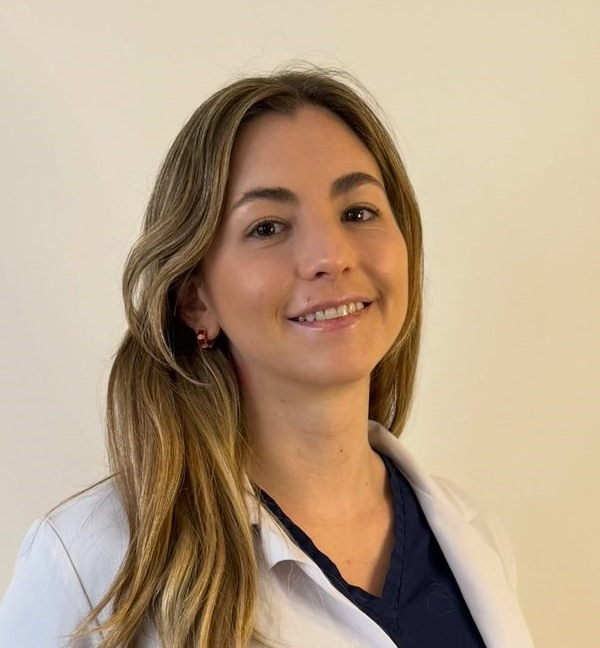
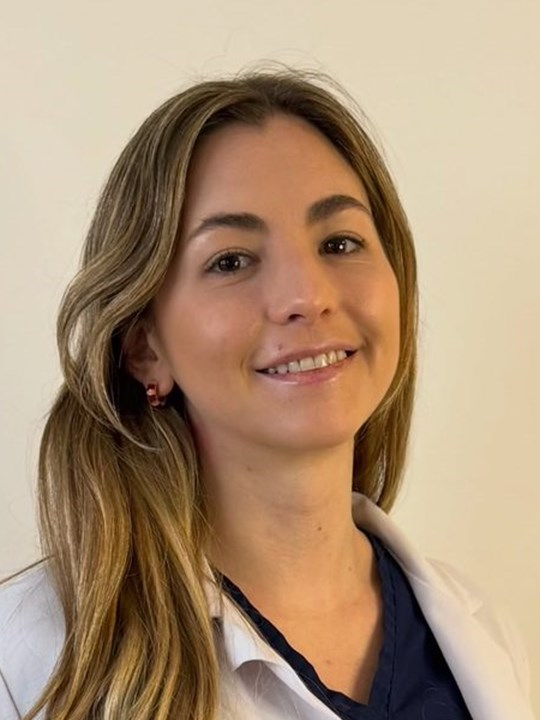
El equipo en una sola fila: las seis del mismo tamaño y con la misma importancia
- Seis retratos iguales, con el mismo recorte y la cara a un tamaño parecido. En la compu entran todas en una
  fila, sin scroll; en pantallas de hasta 1180 px van de a tres, y en el celular de a dos.
- Al tocar una foto, el perfil completo se abre en una ventana (médicas y kinesióloga).
- Se suma el nombre de la enfermera, Rita Beatriz Nusinovich, también en el pie de página.
- Se saca el diseño anterior, con su código e imágenes.

diff --git a/index.html b/index.html
@@ -19,7 +19,7 @@
   <link rel="preload" href="assets/fonts/instrument-serif-latin.woff2" as="font" type="font/woff2" crossorigin>
   <link rel="preload" href="assets/fonts/archivo-latin.woff2" as="font" type="font/woff2" crossorigin>
   <link rel="stylesheet" href="assets/css/motor.css?v=13">
-  <link rel="stylesheet" href="assets/css/tema.css?v=50">
+  <link rel="stylesheet" href="assets/css/tema.css?v=52">
   <style>html{background:#070f26}</style>
   <script>(function(d){d.className=d.className.replace('no-js','js');try{if(sessionStorage.getItem('coms-m4-intro'))d.classList.add('seen')}catch(e){}var s=null;try{s=localStorage.getItem('coms-tema')}catch(e){}d.dataset.theme=(s==='dark'||s==='light')?s:(matchMedia('(prefers-color-scheme: dark)').matches?'dark':'light')})(document.documentElement);if('scrollRestoration' in history)history.scrollRestoration='manual';</script>
 </head>
@@ -136,92 +136,129 @@
             <p class="k"><b>01</b> El equipo</p>
             <h2 class="d" id="team-title" data-split="words">Un equipo, <em>una misma mirada.</em></h2>
           </div>
-          <p class="lead" data-reveal>Tres otorrinolaringólogas formadas en trastornos respiratorios del sueño, cada una con su recorrido y todas con el mismo criterio. Al pedir el turno elegís con quién atenderte.</p>
+          <p class="lead" data-reveal>Tres otorrinolaringólogas formadas en trastornos respiratorios del sueño, una kinesióloga, una secretaria y una enfermera. Cada una con su recorrido, todas con el mismo criterio. Al pedir el turno elegís con quién atenderte.</p>
         </header>
-        <p class="eq__desliza">Deslizá para ver a las tres</p>
-        <div class="eq__medicas" data-stagger>
-          <article class="eq__m">
-            <div class="eq__foto"><img src="assets/img/equipo-armijos.jpg" alt="Retrato de la Dra. Karla Armijos" loading="lazy" style="object-position:50% 22%"></div>
+        <div class="eq" data-stagger>
+          <article>
+            <button class="eq__b" type="button" data-perfil="p-armijos" aria-haspopup="dialog">
+              <span class="eq__foto"><img src="assets/img/retrato-armijos.jpg" alt="" loading="lazy"></span>
+              <span class="eq__a">Rinología y sueño</span>
+              <span class="eq__n">Dra. Karla Armijos</span>
+              <span class="eq__v">Ver perfil<svg width="13" height="13" aria-hidden="true"><use href="#i-arrow"/></svg></span>
+            </button>
+          </article>
+          <article>
+            <button class="eq__b" type="button" data-perfil="p-orquera" aria-haspopup="dialog">
+              <span class="eq__foto"><img src="assets/img/retrato-orquera.jpg" alt="" loading="lazy"></span>
+              <span class="eq__a">Trastornos del sueño</span>
+              <span class="eq__n">Dra. Lourdes Orquera</span>
+              <span class="eq__v">Ver perfil<svg width="13" height="13" aria-hidden="true"><use href="#i-arrow"/></svg></span>
+            </button>
+          </article>
+          <article>
+            <button class="eq__b" type="button" data-perfil="p-sartori" aria-haspopup="dialog">
+              <span class="eq__foto"><img src="assets/img/retrato-sartori.jpg" alt="" loading="lazy"></span>
+              <span class="eq__a">Medicina del sueño</span>
+              <span class="eq__n">Dra. Verónica Sartori</span>
+              <span class="eq__v">Ver perfil<svg width="13" height="13" aria-hidden="true"><use href="#i-arrow"/></svg></span>
+            </button>
+          </article>
+          <article>
+            <button class="eq__b" type="button" data-perfil="p-jaritos" aria-haspopup="dialog">
+              <span class="eq__foto"><img src="assets/img/retrato-jaritos.jpg" alt="" loading="lazy"></span>
+              <span class="eq__a">Kinesiología · CPAP</span>
+              <span class="eq__n">Verónica Jaritos</span>
+              <span class="eq__v">Ver perfil<svg width="13" height="13" aria-hidden="true"><use href="#i-arrow"/></svg></span>
+            </button>
+          </article>
+          <article>
+            <div class="eq__b">
+              <span class="eq__foto"><img src="assets/img/retrato-garcia.jpg" alt="" loading="lazy"></span>
+              <span class="eq__a">Secretaría</span>
+              <span class="eq__n">Guillermina García</span>
+            </div>
+          </article>
+          <article>
+            <div class="eq__b">
+              <span class="eq__foto"><img src="assets/img/retrato-nusinovich.jpg" alt="" loading="lazy"></span>
+              <span class="eq__a">Enfermería</span>
+              <span class="eq__n">Rita Beatriz Nusinovich</span>
+            </div>
+          </article>
+        </div>
+
+        <!-- los perfiles completos: se abren al tocar cada foto -->
+        <dialog class="perfil" id="p-armijos" aria-labelledby="p-armijos-t" data-lenis-prevent>
+          <button class="perfil__x" type="button" aria-label="Cerrar"><span></span><span></span></button>
+          <img class="perfil__f" src="assets/img/retrato-armijos.jpg" alt="Retrato de la Dra. Karla Armijos" loading="lazy">
+          <div class="perfil__t">
             <span class="eq__a">Rinología y sueño</span>
-            <h3 class="eq__n">Dra. Karla Armijos</h3>
-            <p class="eq__r">Otorrinolaringóloga especializada en Rinología y Trastornos Respiratorios del Sueño. Adultos y niños.</p>
-            <ul class="eq__l">
+            <h3 class="perfil__n" id="p-armijos-t">Dra. Karla Armijos</h3>
+            <p class="perfil__r">Otorrinolaringóloga especializada en Rinología y Trastornos Respiratorios del Sueño. Adultos y niños.</p>
+            <ul class="perfil__l">
               <li>Sector Ronquidos y Apnea del Sueño · <strong>Hospital Británico</strong></li>
               <li>Atiende también en <strong>CEMIC</strong></li>
               <li>Disertante en el 40° Congreso Panamericano de Otorrinolaringología</li>
             </ul>
-            <div class="eq__pie">
-              <div class="chips"><span>Sede Capital</span></div>
-              <div class="eq__acts">
-                <a class="btn btn--a btn--sm" href="https://otorrinosdelsueno.com/turno"><span>Pedir turno</span><span class="btn__i"><svg width="14" height="14"><use href="#i-arrow"/></svg></span></a>
-                <a class="eq__ig" href="https://www.instagram.com/dra.karmijos/" target="_blank" rel="noopener"><svg width="15" height="15" aria-hidden="true"><use href="#i-ig"/></svg>@dra.karmijos</a>
-              </div>
+            <div class="chips"><span>Sede Capital</span></div>
+            <div class="perfil__a">
+              <a class="btn btn--a btn--sm" href="https://otorrinosdelsueno.com/turno"><span>Pedir turno</span><span class="btn__i"><svg width="14" height="14"><use href="#i-arrow"/></svg></span></a>
+              <a class="perfil__ig" href="https://www.instagram.com/dra.karmijos/" target="_blank" rel="noopener"><svg width="15" height="15" aria-hidden="true"><use href="#i-ig"/></svg>@dra.karmijos</a>
             </div>
-          </article>
-          <article class="eq__m">
-            <div class="eq__foto"><img src="assets/img/retrato-orquera.jpg" alt="Retrato de la Dra. Lourdes Orquera" loading="lazy"></div>
+          </div>
+        </dialog>
+        <dialog class="perfil" id="p-orquera" aria-labelledby="p-orquera-t" data-lenis-prevent>
+          <button class="perfil__x" type="button" aria-label="Cerrar"><span></span><span></span></button>
+          <img class="perfil__f" src="assets/img/retrato-orquera.jpg" alt="Retrato de la Dra. Lourdes Orquera" loading="lazy">
+          <div class="perfil__t">
             <span class="eq__a">Trastornos del sueño</span>
-            <h3 class="eq__n">Dra. Lourdes Orquera</h3>
-            <p class="eq__r">Otorrinolaringóloga dedicada a los trastornos respiratorios del sueño. Adultos y niños.</p>
-            <ul class="eq__l">
+            <h3 class="perfil__n" id="p-orquera-t">Dra. Lourdes Orquera</h3>
+            <p class="perfil__r">Otorrinolaringóloga dedicada a los trastornos respiratorios del sueño. Adultos y niños.</p>
+            <ul class="perfil__l">
               <li>Fellowship en Trastornos Respiratorios del Sueño · <strong>Hospital Italiano de Buenos Aires</strong></li>
               <li>Diplomado en Medicina del Sueño</li>
               <li>Consultas presenciales en Tucumán y teleconsultas</li>
             </ul>
-            <div class="eq__pie">
-              <div class="chips"><span>Sede Tucumán</span><span>Videollamada</span></div>
-              <div class="eq__acts">
-                <a class="btn btn--a btn--sm" href="https://otorrinosdelsueno.com/turno"><span>Pedir turno</span><span class="btn__i"><svg width="14" height="14"><use href="#i-arrow"/></svg></span></a>
-                <a class="eq__ig" href="https://www.instagram.com/draorqueraorl/" target="_blank" rel="noopener"><svg width="15" height="15" aria-hidden="true"><use href="#i-ig"/></svg>@draorqueraorl</a>
-              </div>
+            <div class="chips"><span>Sede Tucumán</span><span>Videollamada</span></div>
+            <div class="perfil__a">
+              <a class="btn btn--a btn--sm" href="https://otorrinosdelsueno.com/turno"><span>Pedir turno</span><span class="btn__i"><svg width="14" height="14"><use href="#i-arrow"/></svg></span></a>
+              <a class="perfil__ig" href="https://www.instagram.com/draorqueraorl/" target="_blank" rel="noopener"><svg width="15" height="15" aria-hidden="true"><use href="#i-ig"/></svg>@draorqueraorl</a>
             </div>
-          </article>
-          <article class="eq__m">
-            <div class="eq__foto"><img src="assets/img/equipo-sartori.jpg?v=2" alt="Retrato de la Dra. Verónica Sartori" loading="lazy" style="object-position:50% 27%"></div>
+          </div>
+        </dialog>
+        <dialog class="perfil" id="p-sartori" aria-labelledby="p-sartori-t" data-lenis-prevent>
+          <button class="perfil__x" type="button" aria-label="Cerrar"><span></span><span></span></button>
+          <img class="perfil__f" src="assets/img/retrato-sartori.jpg" alt="Retrato de la Dra. Verónica Sartori" loading="lazy">
+          <div class="perfil__t">
             <span class="eq__a">Medicina del sueño</span>
-            <h3 class="eq__n">Dra. Verónica Sartori</h3>
-            <p class="eq__r">Otorrinolaringóloga con certificación en Medicina del Sueño.</p>
-            <ul class="eq__l">
+            <h3 class="perfil__n" id="p-sartori-t">Dra. Verónica Sartori</h3>
+            <p class="perfil__r">Otorrinolaringóloga con certificación en Medicina del Sueño.</p>
+            <ul class="perfil__l">
               <li>Jefa del Sector Ronquidos y Apneas del Sueño · <strong>Hospital Italiano de Buenos Aires</strong></li>
               <li>Directora de la Beca de Perfeccionamiento en Trastornos Respiratorios del Sueño</li>
               <li>Secretaria de FASO y de la Asociación Argentina de Medicina del Sueño</li>
             </ul>
-            <div class="eq__pie">
-              <div class="chips"><span>Sede Capital</span></div>
-              <div class="eq__acts">
-                <a class="btn btn--a btn--sm" href="https://otorrinosdelsueno.com/turno"><span>Pedir turno</span><span class="btn__i"><svg width="14" height="14"><use href="#i-arrow"/></svg></span></a>
-                <a class="eq__ig" href="https://www.instagram.com/dra.veronicasartori/" target="_blank" rel="noopener"><svg width="15" height="15" aria-hidden="true"><use href="#i-ig"/></svg>@dra.veronicasartori</a>
-              </div>
+            <div class="chips"><span>Sede Capital</span></div>
+            <div class="perfil__a">
+              <a class="btn btn--a btn--sm" href="https://otorrinosdelsueno.com/turno"><span>Pedir turno</span><span class="btn__i"><svg width="14" height="14"><use href="#i-arrow"/></svg></span></a>
+              <a class="perfil__ig" href="https://www.instagram.com/dra.veronicasartori/" target="_blank" rel="noopener"><svg width="15" height="15" aria-hidden="true"><use href="#i-ig"/></svg>@dra.veronicasartori</a>
             </div>
-          </article>
-        </div>
-        <div class="eq__apoyo">
-          <h3 class="eq__tt" data-reveal>Las acompañan</h3>
-          <div class="eq__lista" data-stagger>
-            <article class="eq__p">
-              <img src="assets/img/avatar-jaritos.jpg" alt="Retrato de Verónica Jaritos" loading="lazy">
-              <div>
-                <span class="eq__a">Kinesiología · CPAP</span>
-                <h4 class="eq__pn">Verónica Jaritos</h4>
-                <p>Adaptación y seguimiento del CPAP: la máscara, los ajustes y los controles.</p>
-              </div>
-            </article>
-            <article class="eq__p">
-              <img src="assets/img/avatar-garcia.jpg" alt="Retrato de Guillermina García" loading="lazy">
-              <div>
-                <span class="eq__a">Secretaría</span>
-                <h4 class="eq__pn">Guillermina García</h4>
-              </div>
-            </article>
-            <article class="eq__p">
-              <img src="assets/img/avatar-enfermera.jpg" alt="Retrato de la enfermera del equipo" loading="lazy">
-              <div>
-                <span class="eq__a">Enfermería</span>
-                <h4 class="eq__pn">Enfermera</h4>
-              </div>
-            </article>
           </div>
-        </div>
+        </dialog>
+        <dialog class="perfil" id="p-jaritos" aria-labelledby="p-jaritos-t" data-lenis-prevent>
+          <button class="perfil__x" type="button" aria-label="Cerrar"><span></span><span></span></button>
+          <img class="perfil__f" src="assets/img/retrato-jaritos.jpg" alt="Retrato de Verónica Jaritos" loading="lazy">
+          <div class="perfil__t">
+            <span class="eq__a">Kinesiología · CPAP</span>
+            <h3 class="perfil__n" id="p-jaritos-t">Verónica Jaritos</h3>
+            <p class="perfil__r">Kinesióloga dedicada a la adaptación a CPAP.</p>
+            <ul class="perfil__l">
+              <li>Adaptación y seguimiento del <strong>CPAP</strong></li>
+              <li>La máscara, los ajustes y los controles para que el tratamiento se use todas las noches</li>
+              <li>Junto a la médica que indica el tratamiento</li>
+            </ul>
+          </div>
+        </dialog>
       </div>
     </section>
 
@@ -517,7 +554,7 @@
   <footer class="foot">
     <div class="wrap">
       <div class="foot__cols">
-        <p><b>COMS</b>Centro de Otorrinolaringología y Medicina del Sueño<br>Dra. Karla Armijos · Dra. Lourdes Orquera · Dra. Verónica Sartori · Verónica Jaritos, kinesióloga · Guillermina García, secretaria</p>
+        <p><b>COMS</b>Centro de Otorrinolaringología y Medicina del Sueño<br>Dra. Karla Armijos · Dra. Lourdes Orquera · Dra. Verónica Sartori · Verónica Jaritos, kinesióloga · Guillermina García, secretaria · Rita Beatriz Nusinovich, enfermera</p>
         <p><b>Instagram</b><a href="https://www.instagram.com/dra.karmijos/" target="_blank" rel="noopener">@dra.karmijos</a><br><a href="https://www.instagram.com/draorqueraorl/" target="_blank" rel="noopener">@draorqueraorl</a><br><a href="https://www.instagram.com/dra.veronicasartori/" target="_blank" rel="noopener">@dra.veronicasartori</a></p>
         <p><b>Sedes</b>José E. Uriburu 1252, Depto 2B, CABA<br>Sanatorio 9 de Julio, Córdoba 445, San Miguel de Tucumán</p>
         <p><b>Pacientes</b><a href="https://otorrinosdelsueno.com/turno">Turno online</a><br><a href="https://otorrinosdelsueno.com/cuestionario">Cuestionario del sueño</a><br><a href="https://otorrinosdelsueno.com/indicaciones">Indicaciones post operatorio</a></p>
@@ -548,6 +585,6 @@
   <script src="assets/js/vendor/ScrollTrigger.min.js" defer></script>
   <script src="assets/js/vendor/lenis.min.js" defer></script>
   <script src="assets/js/motor.js?v=17" defer></script>
-  <script src="assets/js/modelo4.js?v=18" defer></script>
+  <script src="assets/js/modelo4.js?v=19" defer></script>
 </body>
 </html>

diff --git a/assets/css/tema.css b/assets/css/tema.css
@@ -137,34 +137,35 @@ body { background: transparent; }
 .split__ph--3 { width: 60%; aspect-ratio: 4 / 3; right: 4%; top: 70%; }
 
 /* ---------- equipo ---------- */
-/* el equipo: las tres médicas con retrato en arco y todos sus datos a la vista, en igualdad; debajo, en una fila
-   más discreta, quienes las acompañan. Un mismo recorte para todas iguala fotos muy distintas entre sí */
-.eq__desliza { display: none; }
-.eq__medicas { display: grid; grid-template-columns: repeat(3, minmax(0, 1fr)); gap: clamp(22px, 3vw, 48px); }
-.eq__m { display: flex; flex-direction: column; min-width: 0; }
-.eq__foto { position: relative; aspect-ratio: 1 / 1.08; margin-bottom: 22px; }
-/* un filete fino que repite el arco, apenas corrido */
-.eq__foto::before { content: ""; position: absolute; inset: -7px -7px 7px 7px; border: 1px solid var(--line); border-radius: 999px 999px var(--r) var(--r); pointer-events: none; transition: inset .7s var(--ease); }
-.eq__m:hover .eq__foto::before { inset: -11px -11px 11px 11px; }
-.eq__foto img { position: absolute; inset: 0; display: block; width: 100%; height: 100%; object-fit: cover; border-radius: 999px 999px var(--r) var(--r); background: var(--surface); }
-.eq__a { font-size: 11.5px; font-weight: 600; letter-spacing: .16em; text-transform: uppercase; color: #9fc1ff; }
-.eq__n { margin: 8px 0 0; font-family: var(--f-serif); font-weight: 400; font-size: clamp(30px, 2.6vw, 42px); line-height: 1.02; letter-spacing: -.02em; text-wrap: balance; }
-.eq__r { margin: 12px 0 0; font-size: 15.5px; line-height: 1.45; color: var(--text); }
-.eq__l { list-style: none; margin: 16px 0 18px; padding: 0; border-top: 1px solid var(--line); }
-.eq__l li { padding: 10px 0; border-bottom: 1px solid var(--line); font-size: 14px; line-height: 1.4; color: var(--text-2); }
-.eq__l strong { color: var(--text); font-weight: 600; }
-.eq__pie { display: flex; flex-direction: column; gap: 14px; margin-top: auto; }
-.eq__acts { display: flex; flex-wrap: wrap; align-items: center; gap: 8px 16px; }
-.eq__ig { display: inline-flex; align-items: center; gap: 7px; font-size: 13.5px; font-weight: 500; color: var(--text-2); transition: color .3s; }
-.eq__ig:hover { color: var(--text); }
-.eq__apoyo { margin-top: clamp(44px, 5vw, 72px); padding-top: clamp(22px, 2.4vw, 32px); border-top: 1px solid var(--line); }
-.eq__tt { margin: 0 0 clamp(18px, 2vw, 26px); font-family: var(--f-serif); font-weight: 400; font-size: clamp(26px, 2.2vw, 34px); line-height: 1; letter-spacing: -.02em; }
-.eq__lista { display: grid; grid-template-columns: repeat(3, minmax(0, 1fr)); gap: clamp(22px, 3vw, 48px); }
-.eq__p { display: flex; align-items: flex-start; gap: 16px; min-width: 0; }
-.eq__p img { flex: none; width: 92px; height: 92px; border-radius: 50%; object-fit: cover; box-shadow: 0 0 0 1px var(--line), 0 0 0 5px var(--bg), 0 0 0 6px var(--line); margin: 6px; background: var(--surface); }
-.eq__p div { min-width: 0; padding-top: 10px; }
-.eq__pn { margin: 6px 0 0; font-family: var(--f-serif); font-weight: 400; font-size: clamp(23px, 1.8vw, 28px); line-height: 1.05; letter-spacing: -.015em; }
-.eq__p p { margin: 7px 0 0; font-size: 13.5px; line-height: 1.4; color: var(--text-2); }
+/* las seis en una misma fila, del mismo tamaño y con el mismo encuadre; el perfil completo se abre en una ventana */
+.eq { display: grid; grid-template-columns: repeat(6, minmax(0, 1fr)); gap: clamp(12px, 1.4vw, 22px); }
+.eq article { min-width: 0; }
+.eq__b { display: flex; flex-direction: column; width: 100%; height: 100%; text-align: left; color: inherit; }
+.eq__foto { display: block; aspect-ratio: 3 / 4; margin-bottom: 14px; overflow: hidden; border-radius: var(--r); background: var(--surface); }
+.eq__foto img { display: block; width: 100%; height: 100%; object-fit: cover; transition: transform 1s var(--ease); }
+button.eq__b:hover .eq__foto img { transform: scale(1.05); }
+.eq__a { font-size: 10.5px; font-weight: 600; line-height: 1.3; letter-spacing: .12em; text-transform: uppercase; color: #9fc1ff; }
+.eq__n { margin-top: 6px; font-family: var(--f-serif); font-size: clamp(22px, 1.75vw, 30px); line-height: 1.03; letter-spacing: -.015em; text-wrap: balance; }
+.eq__v { display: inline-flex; align-items: center; gap: 7px; margin-top: auto; padding-top: 10px; font-size: 13px; font-weight: 600; color: var(--text-2); transition: color .3s, gap .3s; }
+button.eq__b:hover .eq__v { gap: 11px; color: var(--text); }
+/* la ventana del perfil */
+.perfil { width: min(860px, calc(100% - 28px)); max-height: calc(100dvh - 28px); padding: 0; overflow: auto; overscroll-behavior: contain; border: 1px solid var(--line); border-radius: calc(var(--r) + 6px); background: var(--surface); color: var(--text); box-shadow: 0 40px 90px rgba(2, 6, 20, .45); }
+.perfil[open] { display: grid; grid-template-columns: minmax(0, .8fr) minmax(0, 1fr); animation: lbIn .5s var(--ease); }
+.perfil::backdrop { background: rgba(4, 9, 24, .72); }
+.perfil__f { display: block; width: 100%; height: 100%; min-height: 100%; object-fit: cover; }
+.perfil__t { display: flex; flex-direction: column; align-items: flex-start; padding: clamp(24px, 3vw, 40px); min-width: 0; }
+.perfil__n { margin: 8px 44px 0 0; font-family: var(--f-serif); font-weight: 400; font-size: clamp(32px, 3.2vw, 44px); line-height: 1.02; letter-spacing: -.02em; }
+.perfil__r { margin: 12px 0 0; font-size: 15.5px; line-height: 1.45; }
+.perfil__l { align-self: stretch; list-style: none; margin: 16px 0 18px; padding: 0; border-top: 1px solid var(--line); }
+.perfil__l li { padding: 10px 0; border-bottom: 1px solid var(--line); font-size: 14px; line-height: 1.4; color: var(--text-2); }
+.perfil__l strong { color: var(--text); font-weight: 600; }
+.perfil__a { display: flex; flex-wrap: wrap; align-items: center; gap: 10px 16px; margin-top: 18px; }
+.perfil__ig { display: inline-flex; align-items: center; gap: 7px; font-size: 13.5px; font-weight: 500; color: var(--text-2); transition: color .3s; }
+.perfil__ig:hover { color: var(--text); }
+.perfil__x { position: absolute; z-index: 1; top: 14px; right: 14px; width: 40px; height: 40px; border-radius: 50%; border: 1px solid var(--line); background: var(--surface); transition: transform .5s var(--ease); }
+.perfil__x:hover { transform: rotate(90deg); }
+.perfil__x span { position: absolute; left: 11px; right: 11px; top: 50%; height: 1.5px; margin-top: -.75px; background: var(--text); transform: rotate(45deg); }
+.perfil__x span + span { transform: rotate(-45deg); }
 .pn--dark .nums .tile { background: rgba(255, 255, 255, .04); }
 
 /* trayectoria: se iluminan los antecedentes de cada médica */
@@ -372,10 +373,9 @@ body { background: transparent; }
 
 /* ============ responsive ============ */
 @media (max-width: 1180px) {
-  .eq__p { gap: 10px; }
-  .eq__p img { width: 72px; height: 72px; }
+  .eq { grid-template-columns: repeat(3, minmax(0, 1fr)); gap: 22px 14px; }
+  .eq__n { font-size: 26px; }
 }
-@media (min-width: 901px) and (max-width: 1180px) { .eq__acts { flex-direction: column; align-items: flex-start; } }
 @media (max-width: 900px) {
   /* en el celular las fotos van como en la compu: grandes, de borde a borde y fundiéndose con el fondo, pero sin nada
      encima: arrancan debajo de la barra de arriba (--top) y el título va debajo de ellas. --band: el alto de la foto,
@@ -394,12 +394,6 @@ body { background: transparent; }
   .split__pics { min-height: 0; display: grid; grid-template-columns: 1fr 1fr; gap: 10px; }
   .split__ph { position: relative; inset: auto; width: auto; transform: none !important; }
   .split__ph--1 { grid-column: 1 / -1; aspect-ratio: 4 / 3; }
-  /* equipo: en el celular las tres médicas se deslizan de costado; la que se ve queda centrada y de las vecinas se asoma un poco */
-  .eq__desliza { display: block; margin: 0 0 14px; font-size: 12px; font-weight: 600; letter-spacing: .14em; text-transform: uppercase; color: var(--text-2); }
-  .eq__medicas { display: flex; gap: 22px; overflow-x: auto; scroll-snap-type: x mandatory; scrollbar-width: none; overscroll-behavior-x: contain; margin: 0 calc(-1 * var(--gutter)); padding: 10px 9vw 10px; }
-  .eq__medicas::-webkit-scrollbar { display: none; }
-  .eq__m { flex: 0 0 min(80vw, 380px); scroll-snap-align: center; }
-  .eq__lista { grid-template-columns: 1fr; gap: 16px; }
   .tr__cols { grid-template-columns: 1fr; }
   .tr__who { width: 100%; }
   .tr__who button { flex: 1 1 auto; }
@@ -453,6 +447,10 @@ body { background: transparent; }
   .hero4__title { max-width: 40vw; font-size: clamp(36px, min(7vw, 15svh), 64px); }
 }
 @media (max-width: 600px) {
+  .eq { grid-template-columns: repeat(2, minmax(0, 1fr)); gap: 20px 12px; }
+  .eq__n { font-size: 23px; }
+  .perfil[open] { display: block; }
+  .perfil__f { height: min(34dvh, 82vw); min-height: 0; object-position: 50% 18%; }
   .act { min-height: 60px; gap: 12px; padding: 7px 22px 7px 7px; }
   .act__i { width: 46px; height: 46px; }
 }
@@ -653,15 +651,9 @@ body { background: transparent; }
   .lead { font-size: calc(19 * var(--t)); }
   .hero4 { --title: clamp(46px, calc((79svh - 250 * var(--t)) / 2.7), calc(88 * var(--u))); --col: calc(4.4 * var(--title)); padding-top: calc(64px + 66 * var(--t)); }
   .slides { top: calc(18px + 66 * var(--t)); }
-  .eq__a { font-size: calc(11.5 * var(--t)); }
-  .eq__n { font-size: calc(42 * var(--u)); }
-  .eq__r { font-size: calc(15.5 * var(--t)); }
-  .eq__l li { font-size: calc(14 * var(--t)); }
-  .eq__ig { font-size: calc(13.5 * var(--t)); }
-  .eq__tt { font-size: calc(34 * var(--u)); }
-  .eq__pn { font-size: calc(28 * var(--u)); }
-  .eq__p p { font-size: calc(13.5 * var(--t)); }
-  .eq__p img { width: calc(92 * var(--u)); height: calc(92 * var(--u)); }
+  .eq__a { font-size: calc(10.5 * var(--t)); }
+  .eq__n { font-size: calc(30 * var(--u)); }
+  .eq__v { font-size: calc(13 * var(--t)); }
   .tr__t { font-size: calc(64 * var(--u)); }
   .tr__col li strong { font-size: calc(15.5 * var(--t)); }
   .tr__col li span { font-size: calc(13.5 * var(--t)); }

diff --git a/assets/js/modelo4.js b/assets/js/modelo4.js
@@ -101,6 +101,15 @@
     setInterval(() => { if (onScreen && !document.hidden) show(cur + 1); }, DWELL);
     new IntersectionObserver(([e]) => { onScreen = e.isIntersecting; }).observe(hero4);
   }
+  /* ---------- equipo: el perfil completo se abre en una ventana ---------- */
+  $$('[data-perfil]').forEach(b => {
+    const d = document.getElementById(b.dataset.perfil);
+    if (!d) return;
+    b.addEventListener('click', () => { d.showModal(); d.scrollTop = 0; lenis() && lenis().stop(); document.body.style.overflow = 'hidden'; });
+    d.addEventListener('close', () => { lenis() && lenis().start(); document.body.style.overflow = ''; b.focus({ preventScroll: true }); });
+    d.addEventListener('click', e => { if (e.target === d || e.target.closest('.perfil__x')) d.close(); });
+  });
+
   /* ---------- trayectoria: se iluminan los antecedentes de la médica elegida ---------- */
   $$('[data-tr]').forEach(box => {
     const btns = $$('[data-who]', box), items = $$('[data-w]', box);
